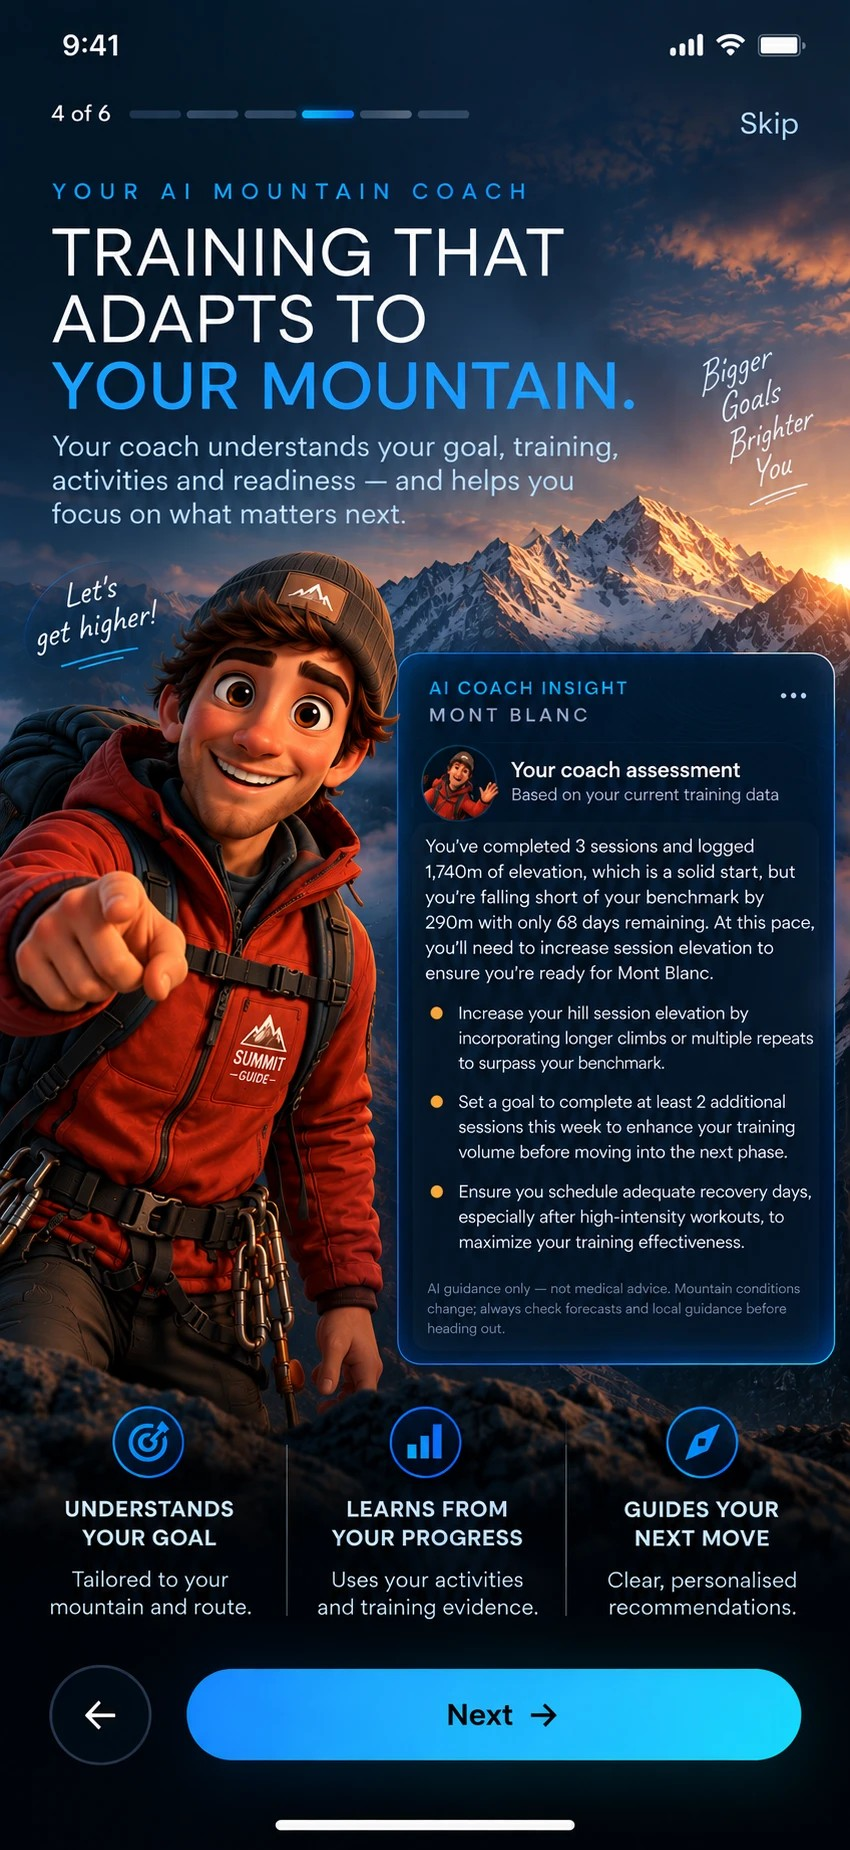
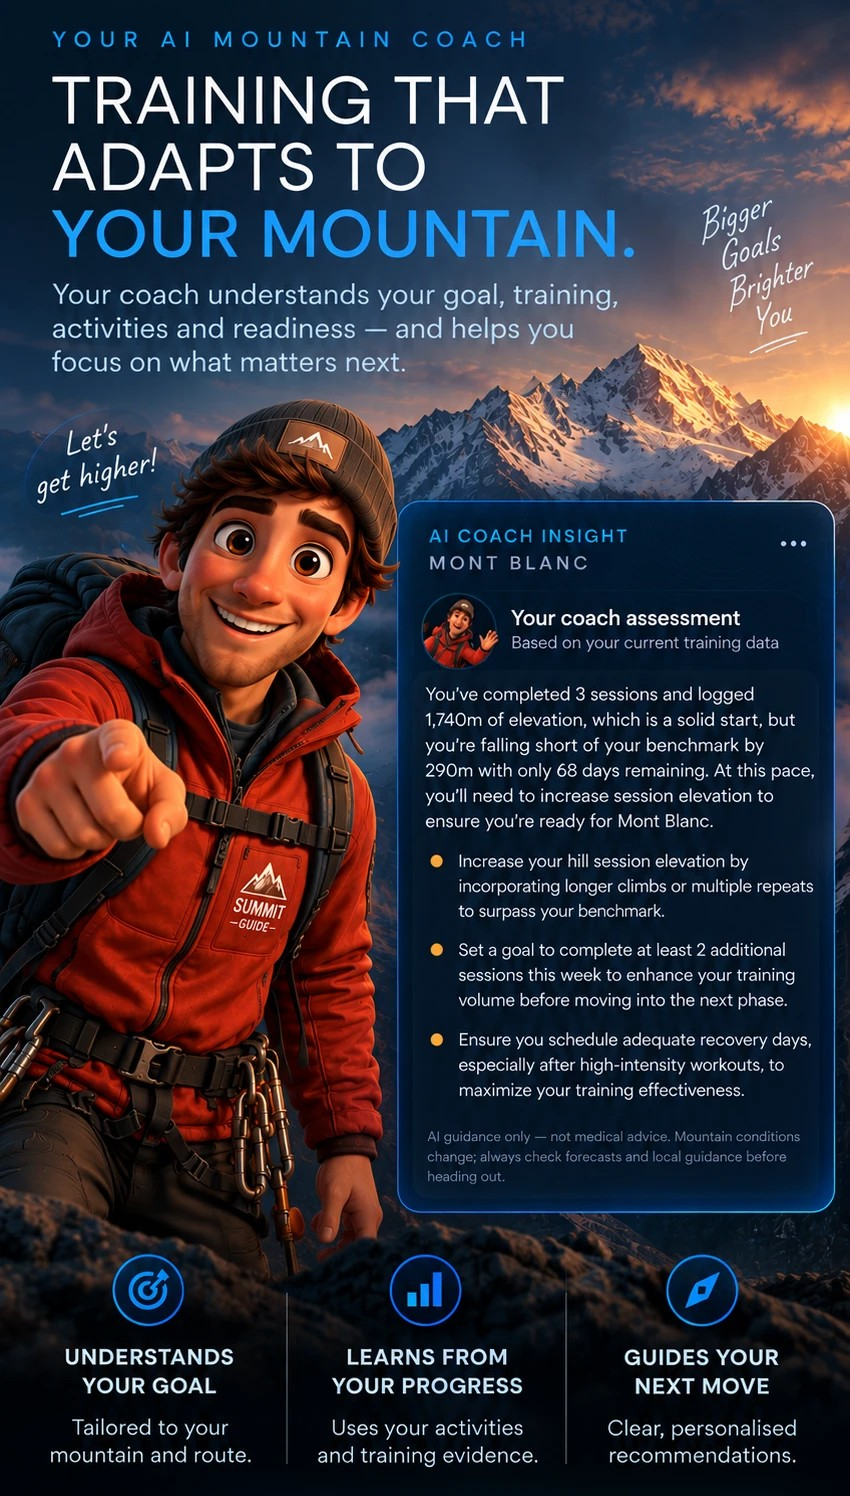
Onboarding: one layout and one Next button across all six screens
The AI Coach screen carried the mockup's own painted chrome — its status
bar, progress row and gradient CTA — so it sat at a different aspect to
the rest of the flow (letterboxed inside the frame) and offered a Next
button that did not match the others.

- crop the artwork's own chrome off (850x1496), leaving only the content
- add shared StepProgress() and StepFooter() and apply them to all six
  screens, so the counter, segment bar, Skip, Back and the CTA pill are
  laid out identically everywhere
- lay the artwork out as an ordinary screen body: full frame width, own
  aspect ratio, no letterbox at any width
- drop the artwork hotspot overlay, now that the real chrome sits outside

The CTA wording is the only thing that varies: "Get Started", then
"Next", then "Continue to SummitReady".

Verified offline at 320/360/390/430: 431 assertions, 0 failures. The
suite now asserts chrome consistency across the whole flow rather than
per-screen geometry. Two harness fixes came out of it: the shim never
emitted negative arbitrary margins (-mx-[20px]), which made a full-bleed
element render inset, and it now strips the webfont links so the offline
render raises no network error.

Claude-Session: https://claude.ai/code/session_01Q7FRBEnAFAeSvC8P6ZBUjk

diff --git a/summitready-onboarding-pro-mockup.html b/summitready-onboarding-pro-mockup.html
@@ -476,6 +476,39 @@ const Primary = (label, attr, icon = 'arrowR') => `
 const Secondary = (label, attr) => `
   <button ${attr} class="w-full h-[48px] rounded-[14px] glass text-[13.5px] font-bold text-white/85 pressable">
     ${esc(label)}</button>`;
+/* ═══ SHARED ONBOARDING CHROME ═══
+   One progress header and one footer for every screen in the flow, so the
+   controls never move or change shape between pages. Both come from the
+   approved AI Coach visual. */
+function StepProgress(step, opts = {}) {
+  const i = ONBOARDING_STEPS.indexOf(step), total = ONBOARDING_STEPS.length;
+  return `<div class="flex items-center gap-[12px] min-h-[44px]">
+    <span class="shrink-0 text-[13px] font-semibold text-white/75 tabular-nums">${i + 1} of ${total}</span>
+    <div class="flex-1 flex items-center gap-[5px]" role="progressbar"
+         aria-valuemin="1" aria-valuemax="${total}" aria-valuenow="${i + 1}"
+         aria-label="Onboarding step ${i + 1} of ${total}">
+      ${Array.from({ length:total }, (_, k) => `<span class="h-[4px] rounded-full transition-all duration-300
+        ${k === i ? 'flex-[1.7] bg-accent' : 'flex-1 bg-white/[.18]'}"></span>`).join('')}
+    </div>
+    ${opts.skip === false ? `<span class="shrink-0 w-[52px]" aria-hidden="true"></span>`
+      : `<button data-skip="${step}" class="shrink-0 grid place-items-center min-w-[52px] h-[44px] -mr-[8px]
+            text-[15px] font-semibold text-white/85 pressable">Skip</button>`}
+  </div>`;
+}
+/* Circular Back beside a wide gradient Next pill — identical on every screen. */
+function StepFooter({ back, next, label = 'Next', icon = 'arrowR' }) {
+  return `<div class="flex items-center gap-[12px]">
+    ${back ? `<button ${back} aria-label="Back"
+      class="shrink-0 grid place-items-center w-[52px] h-[52px] rounded-full
+             border border-white/18 bg-white/[.06] pressable" data-icon="back" data-size="20"></button>` : ''}
+    <button ${next}
+      class="flex-1 h-[54px] rounded-full bg-gradient-to-r from-accent to-[#39B7FF] text-white
+             text-[16px] font-bold pressable flex items-center justify-center gap-[9px]
+             shadow-[0_10px_28px_rgba(22,125,247,.38)]">
+      ${esc(label)}${icon ? `<span data-icon="${icon}" data-size="17"></span>` : ''}</button>
+  </div>`;
+}
+
 function Dots(n, i) {
   return `<div class="flex items-center justify-center gap-[6px]" role="presentation">
     ${Array.from({ length:n }, (_, k) => `<span class="rounded-full transition-all duration-300
@@ -525,7 +558,7 @@ function ScreenWelcome() {
   return Screen({
     subject:'hero', drift:true,
     scrim:'bg-gradient-to-b from-ink/35 via-ink/55 to-ink',
-    top:`<div class="pt-[10px]">${Wordmark()}</div>`,
+    top:StepProgress('welcome', { skip:false }),
     body:`
       <div class="h-[16vh] min-h-[40px]"></div>
       <div class="rise">
@@ -537,8 +570,7 @@ function ScreenWelcome() {
         <p class="text-[clamp(13px,4vw,15px)] leading-[1.45] text-white/80">
           Train. Explore. Achieve.<br>
           <span class="text-white/60">Turn everyday hills into extraordinary adventures.</span></p>
-        <div class="mt-[16px]">${Dots(4, 0)}</div>
-        <div class="mt-[14px]">${Primary('Get Started', 'data-go="paths"')}</div>
+        <div class="mt-[18px]">${StepFooter({ next:'data-go="paths"', label:'Get Started' })}</div>
         <p class="mt-[13px] text-center text-[12.5px] text-white/50">
           Already have an account?
           <button data-signin class="ml-[3px] inline-grid place-items-center min-h-[44px] px-[6px] -my-[10px]
@@ -574,7 +606,7 @@ function ScreenPaths() {
   return Screen({
     subject:'paths',
     scrim:'bg-gradient-to-b from-ink/85 via-ink/90 to-ink',
-    top:BackSkipBar('data-go="welcome"', 'data-skip="paths"'),
+    top:StepProgress('paths'),
     body:`
       <div class="pt-[14px] text-center rise">
         ${H1('TWO WAYS\nTO GO HIGHER')}
@@ -588,7 +620,7 @@ function ScreenPaths() {
       </div>
       <p class="mt-[14px] text-center text-[11.5px] leading-[16px] text-white/40">
         You are not choosing permanently — both are always there.</p>`,
-    cta:`<div class="mb-[14px]">${Dots(4, 1)}</div>${Primary('Next', 'data-go="bank"')}`,
+    cta:StepFooter({ back:'data-go="welcome"', next:'data-go="bank"' }),
   });
 }
 
@@ -600,7 +632,7 @@ function ScreenBank() {
   return Screen({
     subject:'bank',
     scrim:'bg-gradient-to-b from-ink/86 via-ink/90 to-ink',
-    top:BackSkipBar('data-go="paths"', 'data-skip="bank"'),
+    top:StepProgress('bank'),
     body:`
       <div class="pt-[14px] text-center rise">
         ${H1('EVERY METRE\nCOUNTS.')}
@@ -642,7 +674,7 @@ function ScreenBank() {
             <span class="mt-[8px] text-[11px] leading-[14px] font-semibold text-white/65">${nl(l)}</span>
           </div>`).join('')}
       </div>`,
-    cta:`<div class="mb-[14px]">${Dots(4, 2)}</div>${Primary('Next', 'data-go="coach"')}`,
+    cta:StepFooter({ back:'data-go="paths"', next:'data-go="coach"' }),
   });
 }
 
@@ -750,15 +782,6 @@ function CoachMascot() {
      · only Next, Back and Skip are interactive, which is what was asked for.
    ───────────────────────────────────────────────────────────────────────── */
 
-/* Control positions, measured from the artwork itself rather than eyeballed,
-   as fractions of its 850 x 1850 frame. If the artwork is replaced these are
-   the only numbers that need remeasuring. */
-const COACH_HOTSPOTS = {
-  skip: { left:'80%',   top:'3.4%',  width:'19%',   height:'6.6%' },
-  back: { left:'6.5%',  top:'89.2%', width:'11.5%', height:'6.6%' },
-  next: { left:'22.0%', top:'90.2%', width:'72.1%', height:'4.9%' },
-};
-
 /* The full text of the screen, for anyone who cannot see the artwork. */
 const COACH_SCREEN_ALT = [
   'Your AI mountain coach. Training that adapts to your mountain.',
@@ -774,29 +797,24 @@ const COACH_SCREEN_ALT = [
   'Guides your next move: clear, personalised recommendations.',
 ].join(' ');
 
-function CoachHotspot(area, attr, label) {
-  const a = COACH_HOTSPOTS[area];
-  return `<button ${attr} aria-label="${esc(label)}"
-    class="absolute z-20 rounded-full pressable focus-visible:ring-2 focus-visible:ring-white/70"
-    style="left:${a.left};top:${a.top};width:${a.width};height:${a.height};min-height:44px"></button>`;
-}
-
 function ScreenCoach() {
   const m = MEDIA.resolve('coachScreen');
-  return `
-    <div class="relative flex flex-col h-[100svh] bg-ink" style="height:100svh">
-      <!-- the approved artwork, scaled to the frame and never cropped -->
-      <div class="relative flex-1 min-h-0 w-full" data-coach-artwork>
+  return Screen({
+    subject:'coach',
+    scrim:'bg-ink',
+    top:StepProgress('coach'),
+    /* The artwork fills the frame's width and scrolls with the body, exactly
+       like every other screen's content. Its own header and footer were
+       cropped off so the shared chrome supplies them instead — no letterbox,
+       and the controls never shift between pages. */
+    body:`
+      <div class="-mx-[20px] relative" data-coach-artwork>
         ${m.url
-          ? `<img src="${m.url}" alt="${esc(COACH_SCREEN_ALT)}"
-                  class="absolute inset-0 w-full h-full object-contain object-top">`
-          : `<div class="ph absolute inset-0"></div>`}
-
-        ${CoachHotspot('skip', 'data-skip="coach"', 'Skip onboarding')}
-        ${CoachHotspot('back', 'data-go="bank"', 'Back')}
-        ${CoachHotspot('next', 'data-go="intent"', 'Next')}
-      </div>
-    </div>`;
+          ? `<img src="${m.url}" alt="${esc(COACH_SCREEN_ALT)}" class="block w-full h-auto">`
+          : `<div class="ph w-full aspect-[850/1496]"></div>`}
+      </div>`,
+    cta:StepFooter({ back:'data-go="bank"', next:'data-go="intent"' }),
+  });
 }
 
 /* 5 · INTENT — the only question in the whole flow, and it is optional.
@@ -820,7 +838,7 @@ function ScreenIntent() {
   return Screen({
     subject:'intent',
     scrim:'bg-gradient-to-b from-ink/88 via-ink/92 to-ink',
-    top:BackSkipBar('data-go="coach"', 'data-skip="intent"'),
+    top:StepProgress('intent'),
     body:`
       <div class="pt-[14px] text-center rise">
         ${H1('WHAT BRINGS\nYOU HERE?')}
@@ -831,8 +849,7 @@ function ScreenIntent() {
       </div>
       <p class="mt-[13px] text-center text-[11.5px] leading-[16px] text-white/40">
         Not a permanent choice — it only decides where you start.</p>`,
-    cta:`<div class="mb-[14px]">${Dots(4, 3)}</div>
-      ${Primary(sel ? 'Next' : 'Next', 'data-go="ready"')}`,
+    cta:StepFooter({ back:'data-go="coach"', next:'data-go="ready"' }),
   });
 }
 
@@ -842,7 +859,7 @@ function ScreenReady() {
   return Screen({
     subject:'ready', drift:true,
     scrim:'bg-gradient-to-b from-ink/55 via-ink/82 to-ink',
-    top:`<div class="min-h-[34px]"></div>`,
+    top:StepProgress('ready', { skip:false }),
     body:`
       <div class="pt-[8px] text-center rise">
         ${H1("YOU'RE READY\nTO BEGIN")}
@@ -864,8 +881,7 @@ function ScreenReady() {
             <button data-go="intent" class="ml-[2px] inline-grid place-items-center min-h-[44px] px-[6px] -my-[12px]
               font-bold text-accent pressable align-middle">Change</button></span>
         </div>` : ''}`,
-    cta:`<div class="mb-[14px]">${Dots(4, 3)}</div>
-      ${Primary('Continue to SummitReady', 'data-complete')}`,
+    cta:StepFooter({ back:'data-go="intent"', next:'data-complete', label:'Continue to SummitReady' }),
   });
 }
 </script>
